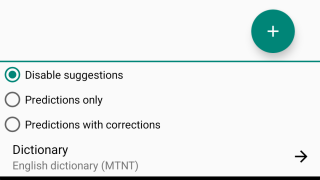
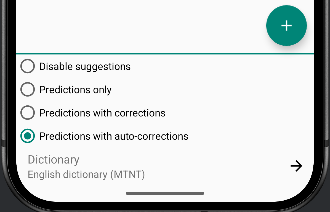
docs(android): document autocorrect toggle within Android help
Relates-to: #16402

Build-bot: skip build:android
Test-bot: skip

Changed region(s): [[0.0, 0.0, 1.0, 1.0]]

diff --git a/android/docs/help/basic/using-the-banner.md b/android/docs/help/basic/using-the-banner.md
@@ -21,6 +21,7 @@ At the bottom of the language settings menu are three controls for the banner:
 * Disable suggestions (Display image banner instead)
 * Predictions only (Suggestion banner displays predictions)
 * Predictions with corrections (Suggestion banner displays predictions and corrections)
+* Predictions with auto-corrections (Tapping the space bar may automatically apply the best suggestion)
 
 ## Using the Suggestion Banner
 
@@ -34,6 +35,6 @@ If a [dictionary is installed](installing-dictionaries) and enabled for the acti
 
 ## The Keyman Themed Banner
 
-When suggestions are disabled or unavailable, the Keyman-themed banner will display instead. This is displayed so popups and gestures for the top row of keys are visible. 
+When suggestions are disabled or unavailable, the Keyman-themed banner will display instead. This is displayed so popups and gestures for the top row of keys are visible.
 
 ![](../android_images/themed-banner.png)
